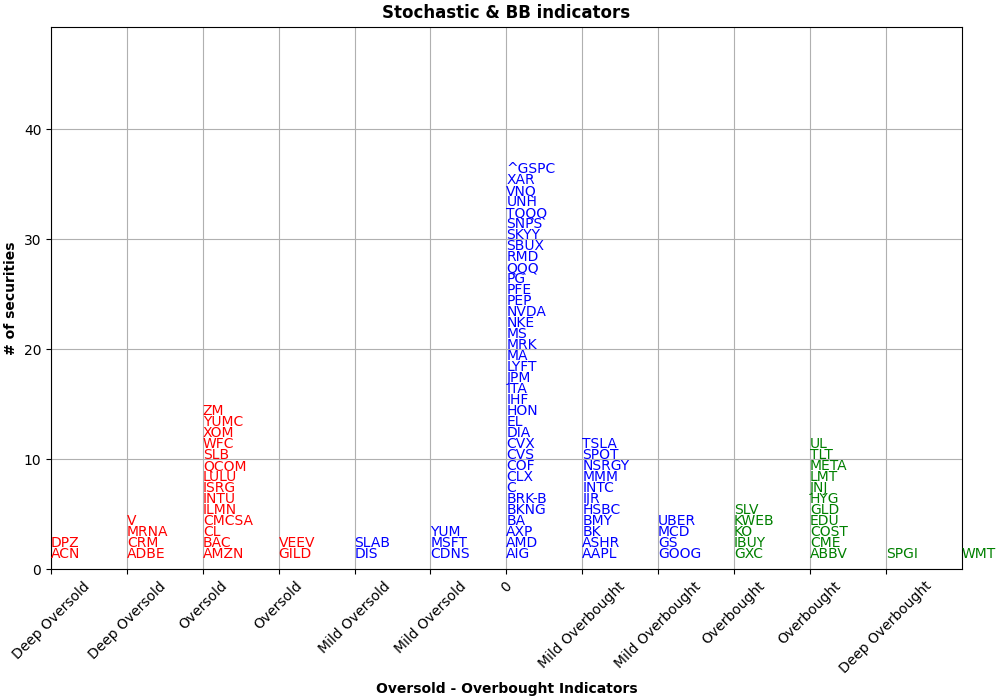
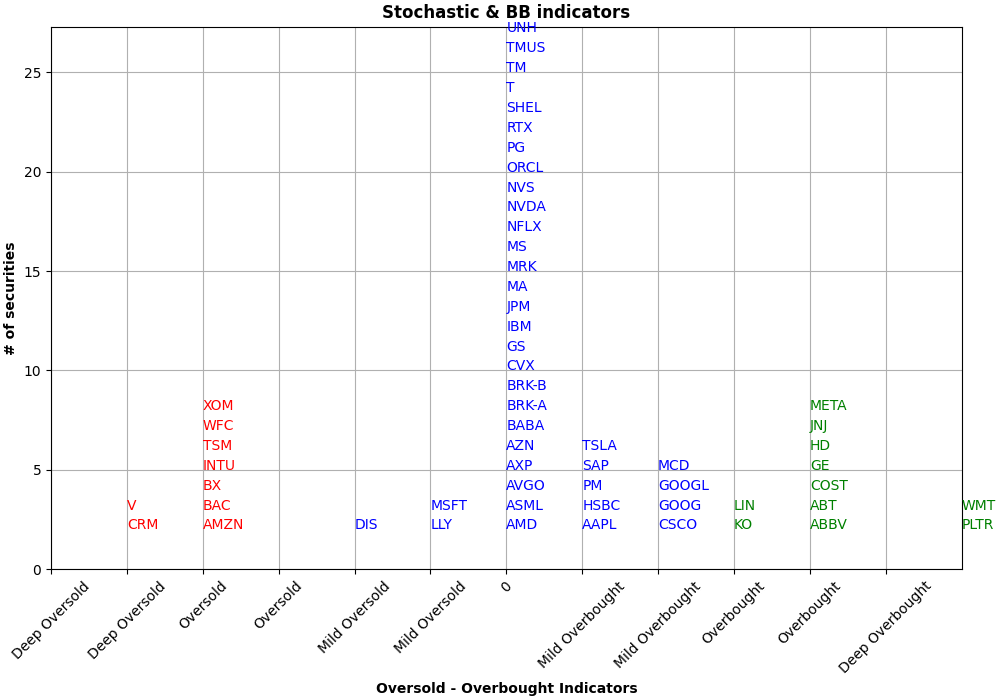
change the watch list

diff --git a/test.py b/test.py
@@ -1,0 +1,32 @@
+import pandas as pd
+
+# Load the CSV file into a DataFrame
+file_path = 'finviz.csv'  # Update this path with the actual location of your CSV file
+df = pd.read_csv(file_path)
+
+# Extract the 'Ticker' column
+tickers = df['Ticker'].tolist()
+df2 = pd.read_csv('watchlist.csv')
+# Print the list of tickers
+ticker2s = df2['Ticker'].tolist()
+
+#print(tickers)
+#print(ticker2s)
+mergedlist= list(set(tickers).union(set(ticker2s)))
+print(mergedlist)
+
+# Save the merged list to a new CSV file
+output_file_path = 'merged_tickers.csv'
+merged_df = pd.DataFrame(mergedlist, columns=['Ticker'])
+merged_df.to_csv(output_file_path, index=False)
+print(f"Merged list saved to {output_file_path}")
+# Ensure the Flask app is running before testing this script
+# You can run this script to generate the merged CSV file with tickers from both sources.
+# Ensure the Flask app is running before testing this script
+# You can run this script to generate the merged CSV file with tickers from both sources.
+# Ensure the Flask app is running before testing this script
+# You can run this script to generate the merged CSV file with tickers from both sources.
+# Ensure the Flask app is running before testing this script   
+
+
+df['Ticker'].to_csv('watchlist.csv', index=False)

diff --git a/main.py b/main.py
@@ -117,7 +117,7 @@ plt.xlim(xmin=-6, xmax=6)
 for value, symbols in list_symbol:
     color = 'g' if value >= 3 else 'r' if value <= -3 else 'b'
     for idx, sym in enumerate(symbols):
-        ax.annotate(sym, xy=(value, idx + 1), color=color)
+        ax.annotate(sym, xy=(value, idx + 2), color=color)
 
 # Set X-axis labels
 labels = ['Deep Oversold'] * 2 + ['Oversold'] * 2 + ['Mild Oversold'] * 2 + [0] + ['Mild Overbought'] * 2 + ['Overbought'] * 2 + ['Deep Overbought'] * 2
